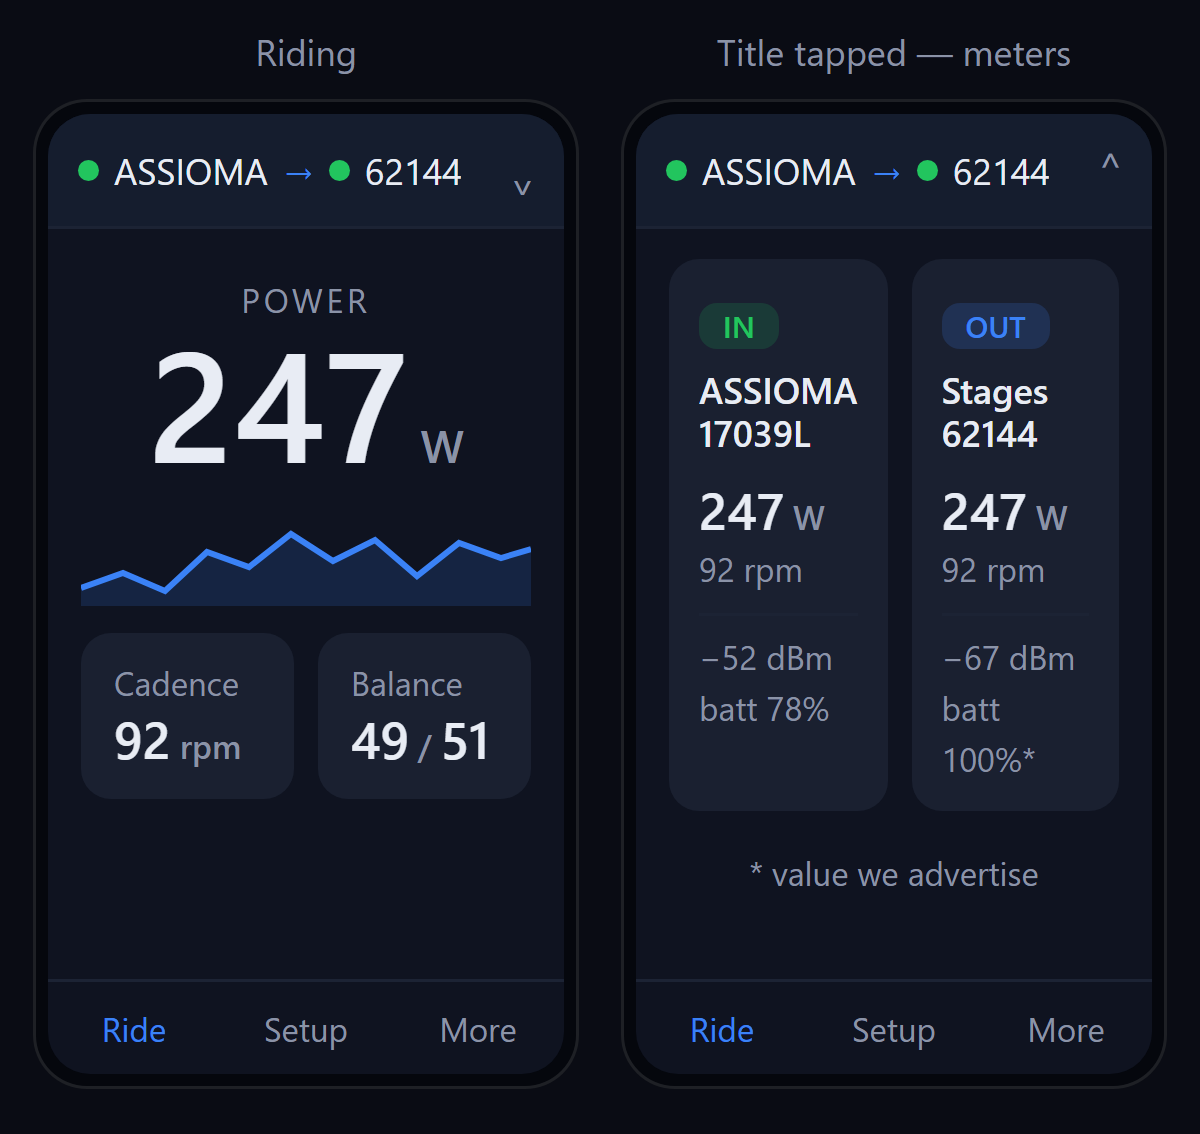
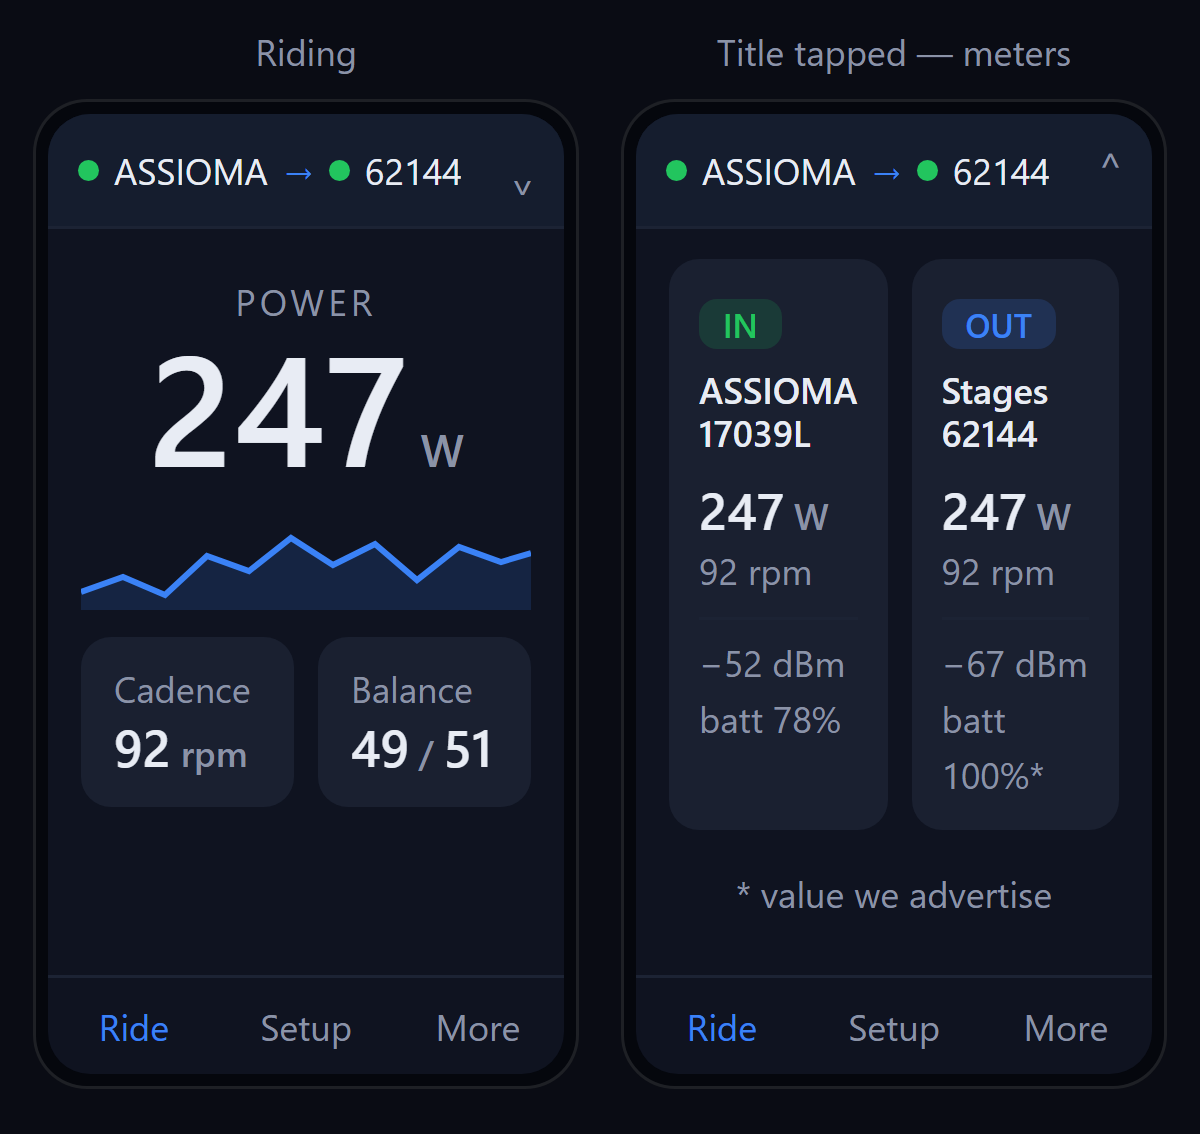
design: Ride v4 — apply 12px legibility floor (still fits)

diff --git a/design/sb20-lcd-ride-v4.html b/design/sb20-lcd-ride-v4.html
@@ -18,20 +18,20 @@ body{margin:0;background:#0a0c14;color:var(--fg);font-family:system-ui,-apple-sy
 .gd{display:inline-block;width:7px;height:7px;border-radius:50%;background:var(--ok)}
 .chev{color:var(--mut);font-size:14px}
 .bd{padding:10px 11px;display:flex;flex-direction:column;gap:9px;flex:1;min-height:0}
-.k{font-size:11px;color:var(--mut)}
+.k{font-size:12px;color:var(--mut)}
 .v{font-size:17px;font-weight:500}
-.u{font-size:11px;color:var(--mut)}
+.u{font-size:12px;color:var(--mut)}
 .chip{background:var(--card);border-radius:10px;padding:9px 11px}
 .nav{margin-top:auto;display:flex;border-top:1px solid var(--line)}
-.nav span{flex:1;text-align:center;padding:8px 0;color:var(--mut);font-size:11px}
+.nav span{flex:1;text-align:center;padding:8px 0;color:var(--mut);font-size:12px}
 .nav span.on{color:var(--accent)}
 .col{flex:1;background:var(--card);border-radius:10px;padding:9px 10px}
-.badge{display:inline-block;font-size:10px;font-weight:500;padding:1px 8px;border-radius:6px}
+.badge{display:inline-block;font-size:11px;font-weight:500;padding:1px 8px;border-radius:6px}
 .bin{background:rgba(34,197,94,.16);color:var(--ok)}
 .bout{background:rgba(59,130,246,.18);color:var(--accent)}
 .nm{font-size:12px;font-weight:500;line-height:1.2;margin:6px 0 7px}
 .met{font-size:17px;font-weight:500}
-.sub{font-size:11px;color:var(--mut);line-height:1.55}
+.sub{font-size:12px;color:var(--mut);line-height:1.55}
 .rule{border-top:1px solid var(--line);margin:6px 0 5px}
 </style>
 </head>
